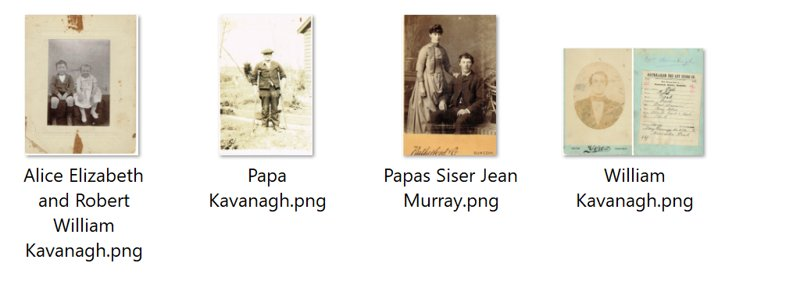
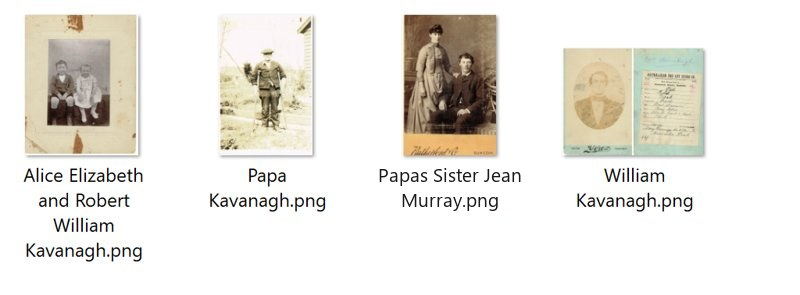
Free: broaden /free/ intro line; fix Sister typo in folder course

Changed region(s): [[0.4688, 0.5492, 0.6562, 0.7322]]

diff --git a/free/organise-a-folder/index.html b/free/organise-a-folder/index.html
@@ -140,7 +140,7 @@
             <div class="of-tile" data-k="scan" data-f="uns"><img src="img/scan.jpg" alt=""><span>Scan_20220424.png</span></div>
             <div class="of-tile" data-k="jack" data-f="mck"><img src="img/jack.jpg" alt=""><span>Jack McKenzie portrait.png</span></div>
             <div class="of-tile" data-k="pdf" data-f="tree"><div class="of-pdf">PDF</div><span>William Scott family history.pdf</span></div>
-            <div class="of-tile" data-k="jean" data-f="kav"><img src="img/jean.jpg" alt=""><span>Papas Siser Jean Murray.png</span></div>
+            <div class="of-tile" data-k="jean" data-f="kav"><img src="img/jean.jpg" alt=""><span>Papas Sister Jean Murray.png</span></div>
             <div class="of-tile" data-k="greaves" data-f="gre"><img src="img/greaves.jpg" alt=""><span>Greaves Family photo Melbourne.png</span></div>
             <div class="of-tile" data-k="wed2" data-f="wed"><img src="img/wed2.jpg" alt=""><span>coral-barnett-album-59_12507541284_o.jpg</span></div>
             <div class="of-tile" data-k="grandma" data-f="mck"><img src="img/grandma.jpg" alt=""><span>Grandma and Papa Octogen Dunedin.png</span></div>

diff --git a/free/index.html b/free/index.html
@@ -35,7 +35,7 @@
     <div class="hero">
       <p class="eyebrow">Free mini courses</p>
       <h1>Small jobs, done properly, with the AI you already have.</h1>
-      <p class="lede">Short, free courses for PAs and admins. Copy the instructions into ChatGPT, Claude, Copilot or Gemini, and it coaches you through the job one step at a time, using your real details.</p>
+      <p class="lede">Short, free courses for anyone who wants to recapture more of their time. These examples are designed to illustrate new ways of using your existing tools. Copy the instructions into ChatGPT, Claude, Copilot or Gemini, and it coaches you through the job one step at a time, using your real details.</p>
     </div>
   </div>
 </header>

diff --git a/README.md b/README.md
@@ -160,6 +160,8 @@ Add `--virtual-time-budget=14000` to capture the loop after it has cycled a few 
 - **18 Nov 2026:** Home page: added the Free mini courses strip (links to all three courses and /free/) after "Start where you are".
 - **18 Nov 2026:** Travel eSIM case study rebuilt from Claire’s two diagrams: "A travel eSIM service, mapped and working in six weeks" (requirements captured and a working service in six weeks; the public launch came later). "One journey, six flows" is an animated diagram (`.fl-*` styles in `assets/case-studies/mobile-proto.css`, scenes in `assets/case-studies/journey-flow.js`), and "Where automation could help each team" is six team cards (`.tm-*`), labelled as opportunities, not all built. The note says the original development partner didn’t build all the self-service and the business moved to a new partner: keep it neutral, never criticise the developers on the site.
 - **18 Nov 2026:** Home page: the Free mini courses links are now built from the /free/ cards (first 4), so new courses appear automatically.
+- **18 Nov 2026:** Organise a folder: fixed the "Siser" typo to "Sister" in the Jean Murray animation label and in the Kavanagh folder screenshot (label repainted in the image). The real file in CoworkTest is still spelled "Siser".
+- **18 Nov 2026:** /free/ intro line changed from "for PAs and admins" to "for anyone who wants to recapture more of their time", plus a line on illustrating new ways of using existing tools.
 
 ## Known issues
 
